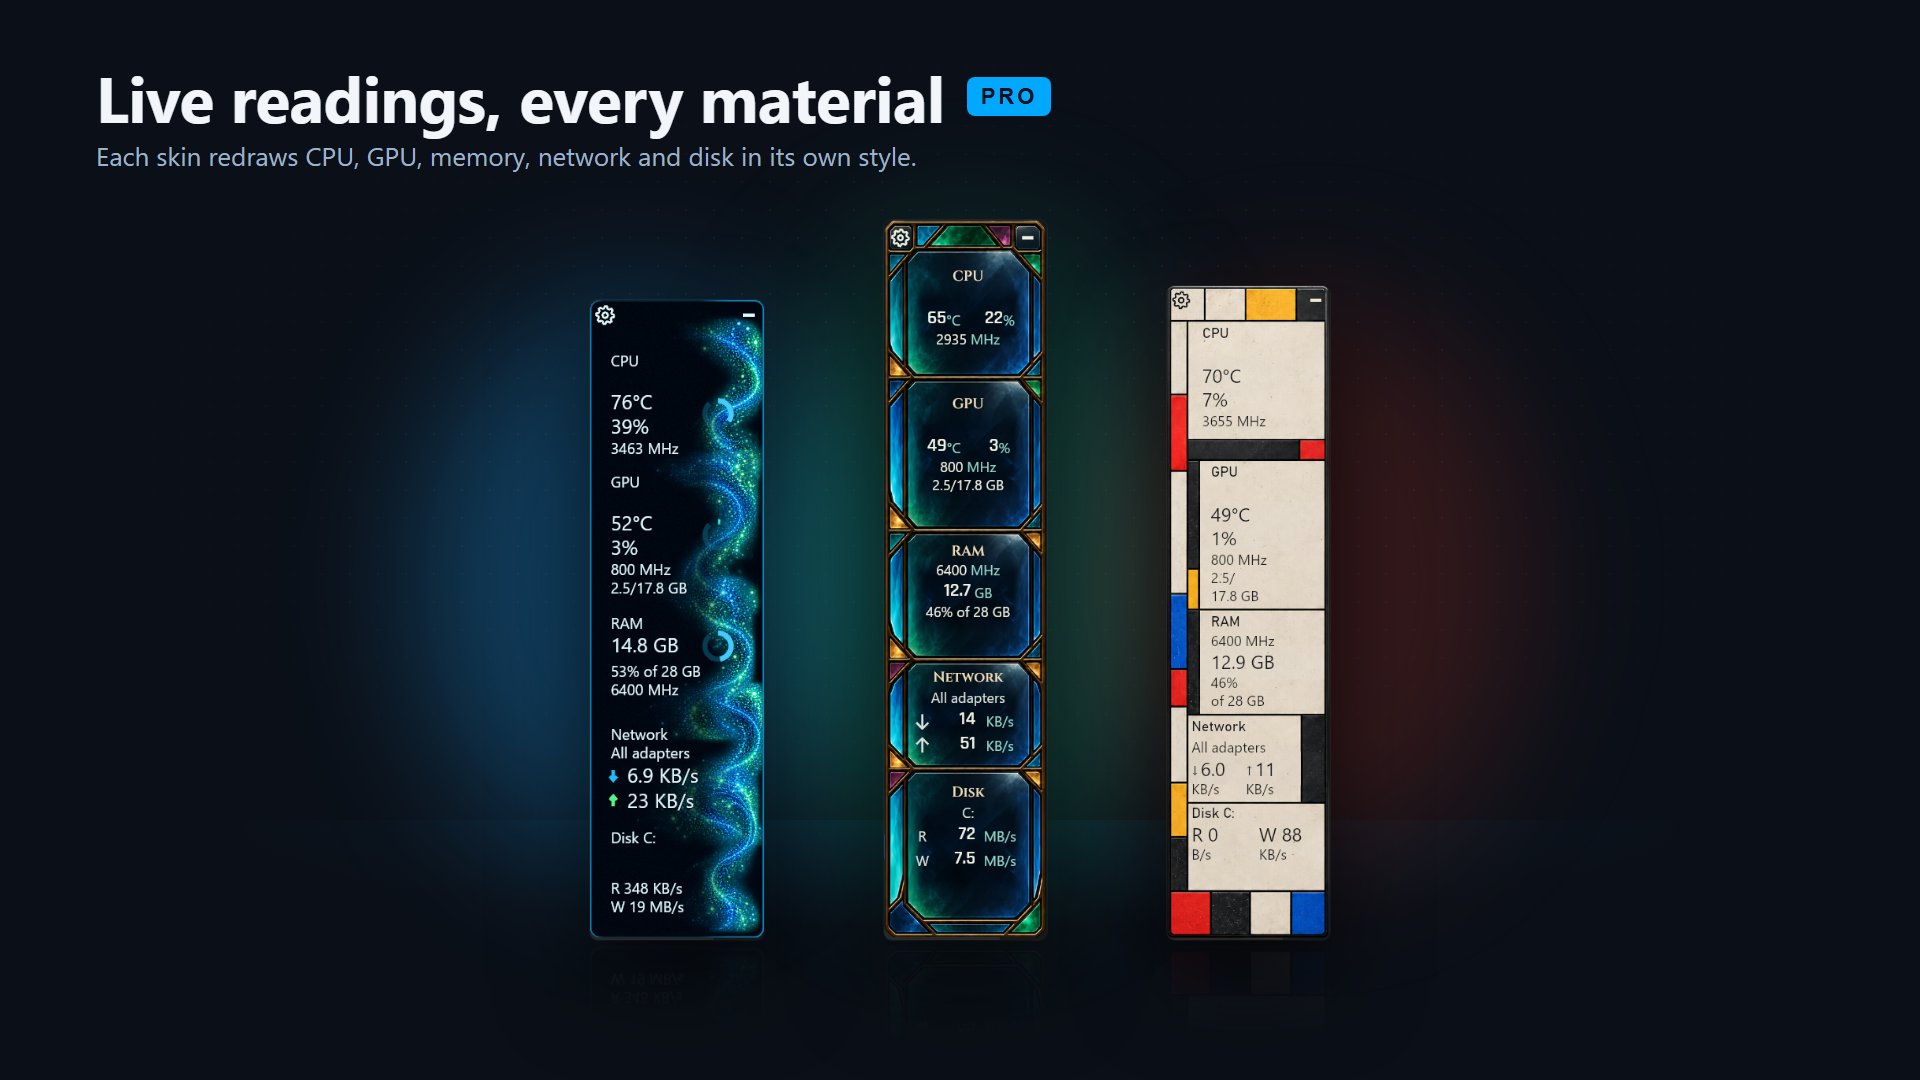
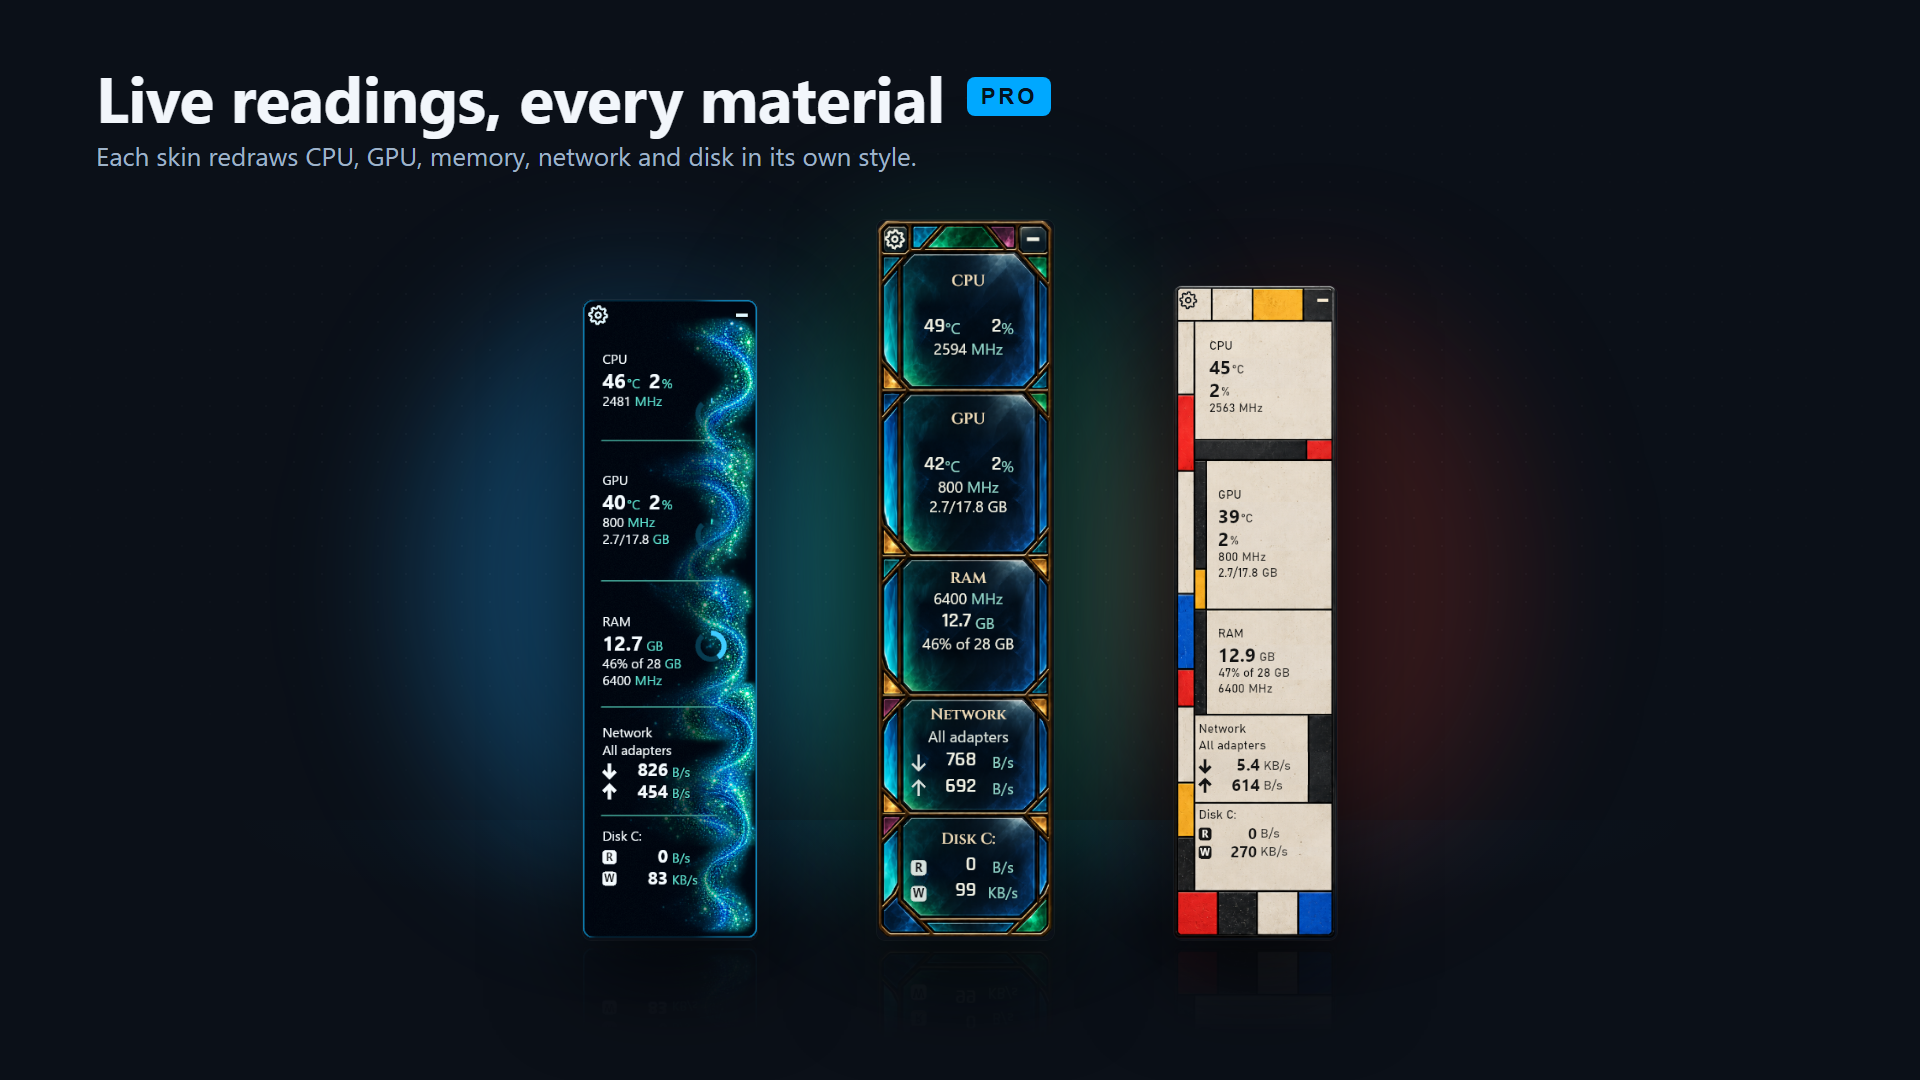
v1.3.7: README, refreshed Pro skin screenshots

Changed region(s): [[0.4375, 0.1833, 0.5625, 0.8861], [0.2812, 0.275, 0.4062, 0.8861], [0.5938, 0.275, 0.7188, 0.8861]]

diff --git a/README.md b/README.md
@@ -4,8 +4,8 @@
 Flux Monitor keeps live CPU, GPU, memory, network and disk readings in a compact
 desktop widget, and Storage Explorer shows which folders fill your drives.
 
-[![Release](https://img.shields.io/badge/release-v1.3.6-5898a0)](https://github.com/matthew-hakes/FluxMonitor/releases/tag/v1.3.6)
-[![VirusTotal](https://img.shields.io/badge/VirusTotal-0%2F71-2ea44f)](https://www.virustotal.com/gui/file/0c49acfd737cadf40b187c28a5fb5ef18951749cd4bbf788fca1c97914fa2bff)
+[![Release](https://img.shields.io/badge/release-v1.3.7-5898a0)](https://github.com/matthew-hakes/FluxMonitor/releases/tag/v1.3.7)
+[![VirusTotal](https://img.shields.io/badge/VirusTotal-0%2F71-2ea44f)](https://www.virustotal.com/gui/file/d913d2b5efbff2e5b37a8f1603539ffa7f8450b03008170958b306009b879fd6)
 ![Windows 10 and 11](https://img.shields.io/badge/Windows-10%20%7C%2011-0078d4)
 
 This repository provides downloads and documentation. The application source is private.
@@ -29,7 +29,7 @@ This repository provides downloads and documentation. The application source is 
 
 <table>
   <tr>
-    <td width="50%" valign="top"><a href="docs/images/pro-skins.png"><img src="docs/images/pro-skins.png" alt="A row of hand-crafted material skins"></a><br><b>Hand-crafted skins.</b> Stained glass, porcelain, opal, bioluminescence and more.</td>
+    <td width="50%" valign="top"><a href="docs/images/pro-skins.png"><img src="docs/images/pro-skins.png" alt="A row of hand-crafted material skins"></a><br><b>Hand-crafted skins.</b> Stained glass, porcelain, opal, a circuit board, brass instruments and more.</td>
     <td width="50%" valign="top"><a href="docs/images/pro-skin-detail.png"><img src="docs/images/pro-skin-detail.png" alt="Three material skins showing live readings"></a><br><b>Every material, live.</b> Each skin redraws the same readings in its own style.</td>
   </tr>
   <tr>
@@ -44,8 +44,8 @@ This repository provides downloads and documentation. The application source is 
 
 ## Release status
 
-The latest Windows download is the standalone Free **v1.3.6**. See its
-[release notes](https://github.com/matthew-hakes/FluxMonitor/releases/tag/v1.3.6)
+The latest Windows download is the standalone Free **v1.3.7**. See its
+[release notes](https://github.com/matthew-hakes/FluxMonitor/releases/tag/v1.3.7)
 for what changed. The Microsoft Store edition and its Pro upgrade are in private
 beta and are not publicly available yet.
 
@@ -96,16 +96,16 @@ authorized to monitor.
 
 ### Windows
 
-1. Download `flux-setup-free-v1.3.6.exe` and its `.sha256` file from the
-   [v1.3.6 release](https://github.com/matthew-hakes/FluxMonitor/releases/tag/v1.3.6).
+1. Download `flux-setup-free-v1.3.7.exe` and its `.sha256` file from the
+   [v1.3.7 release](https://github.com/matthew-hakes/FluxMonitor/releases/tag/v1.3.7).
 2. Check that the file matches the published checksum:
 
    ```powershell
-   Get-FileHash .\flux-setup-free-v1.3.6.exe -Algorithm SHA256
+   Get-FileHash .\flux-setup-free-v1.3.7.exe -Algorithm SHA256
    ```
 
[1 lines of base64/hex data omitted]
-   - VirusTotal: **0 / 71**, [view the scan](https://www.virustotal.com/gui/file/0c49acfd737cadf40b187c28a5fb5ef18951749cd4bbf788fca1c97914fa2bff)
[1 lines of base64/hex data omitted]
+   - VirusTotal: **0 / 71**, [view the scan](https://www.virustotal.com/gui/file/d913d2b5efbff2e5b37a8f1603539ffa7f8450b03008170958b306009b879fd6)
 
 3. Run the installer.
 
